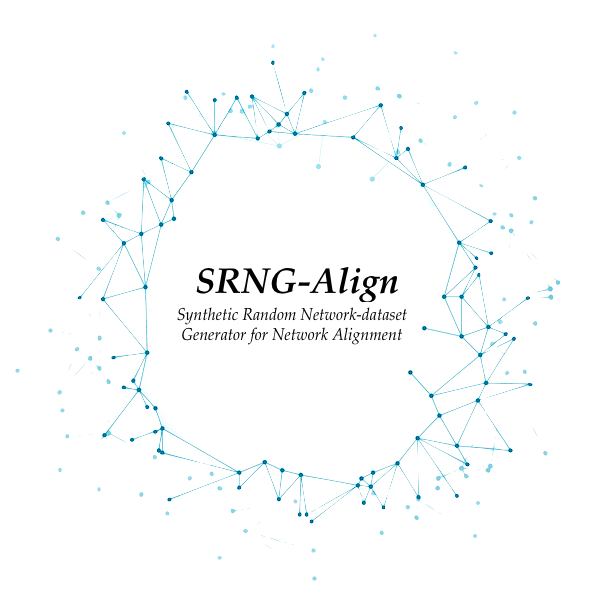
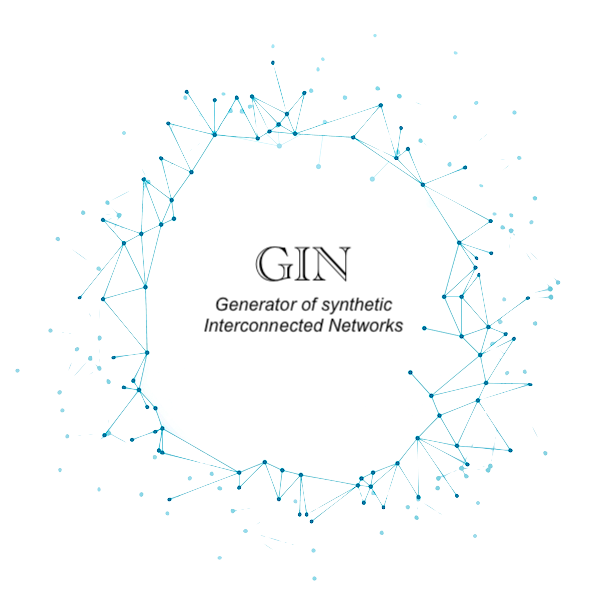
Update

Changed region(s): [[0.3, 0.39, 0.69, 0.57]]

diff --git a/html/index.html b/html/index.html
@@ -19,7 +19,7 @@
 			</div>
 			<div class="wizard-form">
 				<div class="wizard-header">
-					<h3>SRNG</h3>
+					<h3>- GIN - Generator of synthetic Interconnected Networks</h3>
 					<i><b>Generate your dataset for free.</b></i>
 					<BR><BR>
 				</div>
